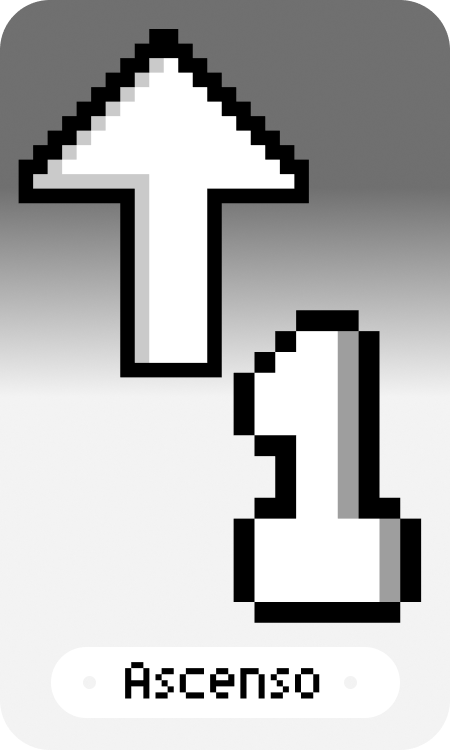
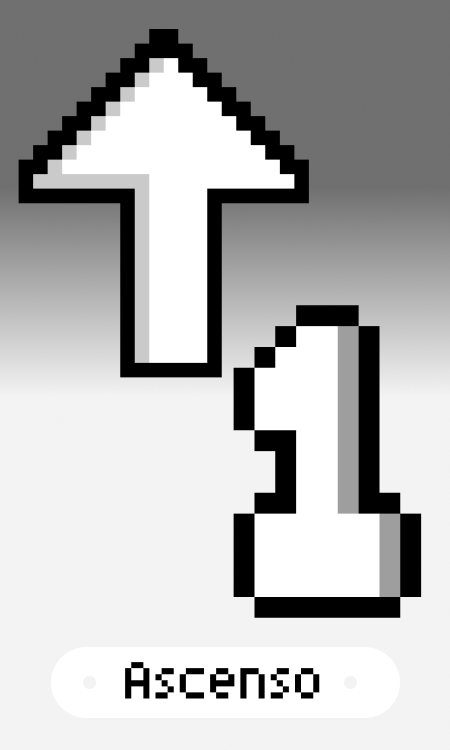
agregue pantalla de victoria, falta diseñar

diff --git a/FrontEnd/Pantalla Principal/Inicio.css b/FrontEnd/Pantalla Principal/Inicio.css
@@ -96,3 +96,125 @@ body {
     margin-left: 67.7rem;
     margin-top: 1rem;
 }
+
+/*Bordes Curvos*/
+.pixel-corners,
+.pixel-corners--wrapper {
+  clip-path: polygon(0px calc(100% - 15px),
+    5px calc(100% - 15px),
+    5px calc(100% - 10px),
+    10px calc(100% - 5px),
+    15px calc(100% - 5px),
+    15px 100%,
+    calc(100% - 15px) 100%,
+    calc(100% - 15px) calc(100% - 5px),
+    calc(100% - 10px) calc(100% - 5px),
+    calc(100% - 5px) calc(100% - 10px),
+    calc(100% - 5px) calc(100% - 15px),
+    100% calc(100% - 15px),
+    100% 15px,
+    calc(100% - 5px) 15px,
+    calc(100% - 5px) 10px,
+    calc(100% - 10px) 5px,
+    calc(100% - 15px) 5px,
+    calc(100% - 15px) 0px,
+    15px 0px,
+    15px 5px,
+    10px 5px,
+    5px 10px,
+    5px 15px,
+    0px 15px);
+}
+.pixel-corners {
+  border: 5px solid transparent;
+}
+.pixel-corners--wrapper {
+  width: fit-content;
+  height: fit-content;
+}
+.pixel-corners--wrapper .pixel-corners {
+  display: block;
+  clip-path: polygon(5px 15px,
+    10px 15px,
+    10px 10px,
+    15px 10px,
+    15px 5px,
+    calc(100% - 15px) 5px,
+    calc(100% - 15px) 10px,
+    calc(100% - 10px) 10px,
+    calc(100% - 10px) 15px,
+    calc(100% - 5px) 15px,
+    calc(100% - 5px) calc(100% - 15px),
+    calc(100% - 10px) calc(100% - 15px),
+    calc(100% - 10px) calc(100% - 10px),
+    calc(100% - 15px) calc(100% - 10px),
+    calc(100% - 15px) calc(100% - 5px),
+    15px calc(100% - 5px),
+    15px calc(100% - 10px),
+    10px calc(100% - 10px),
+    10px calc(100% - 15px),
+    5px calc(100% - 15px));
+}
+.pixel-corners::after,
+.pixel-corners--wrapper::after {
+  content: "";
+  position: absolute;
+  clip-path: polygon(0px calc(100% - 15px),
+    5px calc(100% - 15px),
+    5px calc(100% - 10px),
+    10px calc(100% - 5px),
+    15px calc(100% - 5px),
+    15px 100%,
+    calc(100% - 15px) 100%,
+    calc(100% - 15px) calc(100% - 5px),
+    calc(100% - 10px) calc(100% - 5px),
+    calc(100% - 5px) calc(100% - 10px),
+    calc(100% - 5px) calc(100% - 15px),
+    100% calc(100% - 15px),
+    100% 15px,
+    calc(100% - 5px) 15px,
+    calc(100% - 5px) 10px,
+    calc(100% - 10px) 5px,
+    calc(100% - 15px) 5px,
+    calc(100% - 15px) 0px,
+    15px 0px,
+    15px 5px,
+    10px 5px,
+    5px 10px,
+    5px 15px,
+    0px 15px,
+    0px 50%,
+    5px 50%,
+    5px 15px,
+    10px 15px,
+    10px 10px,
+    15px 10px,
+    15px 5px,
+    calc(100% - 15px) 5px,
+    calc(100% - 15px) 10px,
+    calc(100% - 10px) 10px,
+    calc(100% - 10px) 15px,
+    calc(100% - 5px) 15px,
+    calc(100% - 5px) calc(100% - 15px),
+    calc(100% - 10px) calc(100% - 15px),
+    calc(100% - 10px) calc(100% - 10px),
+    calc(100% - 15px) calc(100% - 10px),
+    calc(100% - 15px) calc(100% - 5px),
+    15px calc(100% - 5px),
+    15px calc(100% - 10px),
+    10px calc(100% - 10px),
+    10px calc(100% - 15px),
+    5px calc(100% - 15px),
+    5px 50%,
+    0px 50%);
+  top: 0;
+  bottom: 0;
+  left: 0;
+  right: 0;
+  background: #ffffff;
+  display: block;
+  pointer-events: none;
+}
+.pixel-corners::after {
+  margin: -5px;
+}

diff --git a/FrontEnd/Pantalla Juego/Trucado.css b/FrontEnd/Pantalla Juego/Trucado.css
@@ -415,3 +415,91 @@ body{
 .BotonesPerdidos:hover{
     transform: scale(1.1);
 }
+
+/*Pantalla de victoria*/
+.PantallaVictoria{
+    position: fixed;
+    display: none;
+    justify-content: center;
+    align-items: center;
+    top: 0;
+    left: 0;
+    z-index: 2;
+    height: 100%;
+    width: 100%;
+}
+.CuadradoOpaco{
+    position: absolute;
+    height: 100%;
+    width: 100%;
+    background-color: black;
+    opacity: 0.7;
+}
+.CuadradoVictoria{
+    position: absolute;
+    background-color: rgb(172, 172, 172);
+    height: 30rem;
+    width: 60rem;
+    border-radius: 1.25rem;
+    display: flex;
+    justify-content: space-around;
+    align-items: center;
+    flex-direction: column;
+}
+.YouWin{
+    color: red;
+    font-size: 6rem;
+    transition: all 0.5s;
+}
+.YouWin:hover{
+    color: rgb(200, 0, 0);
+}
+
+.BarraMedia{
+    display: flex;
+    justify-content: center;
+    align-items: center;
+    gap: 8rem;
+}
+.Estadisticas{
+    display: flex;
+    justify-content: center;
+    align-items: center;
+    flex-direction: column;
+    gap: 2rem;
+}
+
+.BotonesEstadisticas{
+    width: 25rem;
+    padding: 0.5rem;
+    border-radius: 1.875rem;
+    border: solid 0.3125rem;
+    font-size: 2rem;
+    font-family: "Pixelify Sans", sans-serif;
+    transition: all 0.5s;
+}
+
+.CaritaFeliz{
+    width: 10rem;
+}
+
+.BotonesVictoriaDIV{
+    display: flex;
+    justify-content: center;
+    align-items: center;
+    gap: 3rem;
+}
+.BotonesVictoria{
+    width: 20rem;
+    padding: 0.5rem;
+    border-radius: 1.875rem;
+    border: solid black 0.375rem;
+    font-size: 2rem;
+    background-color: red;
+    color: white;
+    font-family: "Pixelify Sans", sans-serif;
+    transition: all 0.5s;
+}
+.BotonesVictoria:hover{
+    transform: scale(1.1);
+}

diff --git a/FrontEnd/Pantalla Juego/Trucado.html b/FrontEnd/Pantalla Juego/Trucado.html
@@ -135,6 +135,28 @@
             </div>
         </div>
     </header>
+
+    <!-- Pantalla oculta de victoria -->
+    <header id="VICTORIA" class="PantallaVictoria">
+        <div class="CuadradoOpaco"></div>
+        <div class="CuadradoVictoria">
+            <h1 class="YouWin"> YOU WIN </h1>
+
+            <div class="BarraMedia">
+                <div class="Estadisticas">
+                    <button class="BotonesEstadisticas"> Puntos ⬛</button>
+                    <button class="BotonesEstadisticas"> Estadisticas ⬛</button>
+                </div>
+
+                <img class="CaritaFeliz" src="IMAGENES/Carita Triste.png" alt=":)">
+            </div>
+
+            <div class="BotonesVictoriaDIV">
+                <button id="PlayAgain" class="BotonesVictoria"> Volver a Jugar </button>
+                <button id="MenuPrincipal" class="BotonesVictoria"> Menu Principal </button>
+            </div>
+        </div>
+    </header>
     
     <script src="Trucado.js" ></script>
 </body>

diff --git a/FrontEnd/Pantalla Tienda/Tienda.css b/FrontEnd/Pantalla Tienda/Tienda.css
@@ -14,7 +14,7 @@ body{
     right: 0;
     top: 0;
     height: 95%;
-    background: rgb(99, 5, 5);
+    background: #4B2C17;
     color: white;
     padding: 1rem;
     font-size: 2rem;
@@ -134,6 +134,7 @@ body{
     font-weight: bold;
     font-family: "Pixelify Sans", sans-serif;
     font-size: 1.5rem;
+    margin-top: -1rem;
 }
 .Titulo{
     color: white;
@@ -213,6 +214,8 @@ body{
       0px 20px
     );
   }
+
+
 
   .BordeNegro,
   .BordeNegro--wrapper {
@@ -310,6 +313,8 @@ body{
   .BordeNegro::after {
     margin: -10px;
   }
+
+
 
   .BordeRojo,
   .BordeRojo--wrapper {
@@ -410,6 +415,8 @@ body{
   }
 
 
+
+  
   .PixelTarot,
   .PixelTarot--wrapper {
     clip-path: polygon(0px calc(100% - 12px),

diff --git a/FrontEnd/Pantalla Juego/Trucado.js b/FrontEnd/Pantalla Juego/Trucado.js
@@ -807,6 +807,7 @@ if (carta1.palo === carta2.palo && carta1.palo === carta3.palo && carta1.palo ==
 
 
 let DERROTA = document.getElementById("DERROTA")
+let VICTORIA = document.getElementById("VICTORIA")
 
 //Parte Enc argada de Sumar Puntos
 //Llamar a esta función para agregar puntos y sumarlos
@@ -819,8 +820,7 @@ function GuardarPuntos(id, sumar) { //
     if (puntosAcumulados[id] >= 1){
         setTimeout(function(){
             if (id === "NOS"){
-                alert("Has ganado")
-                location.reload()
+                VICTORIA.style.display = "flex"
             }
             else if (id === "ELLOS"){
                 DERROTA.style.display = "flex"

diff --git a/FrontEnd/Pantalla Principal/Inicio.html b/FrontEnd/Pantalla Principal/Inicio.html
@@ -18,7 +18,7 @@
     <div class="MenuContainer">
         <h1 class="Menu">☰</h1>
         <!-- El cuadradito de los creditos -->
-        <div class="Creditos">
+        <div class="Creditos pixel-corners">
             <h3>Créditos</h3>
             <p> <strong>- Diseño: </strong>Pelipe Asaad</p>
             <p> <strong>- Frontend: </strong>Dante Botta y <br>  Matias Arisi</p>
